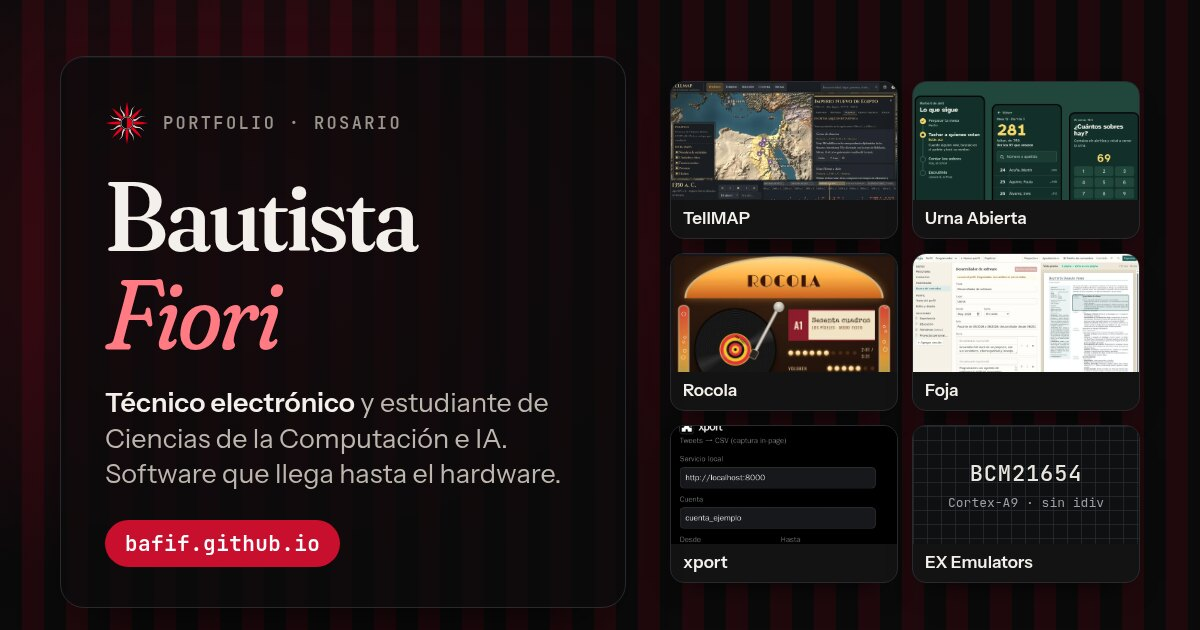
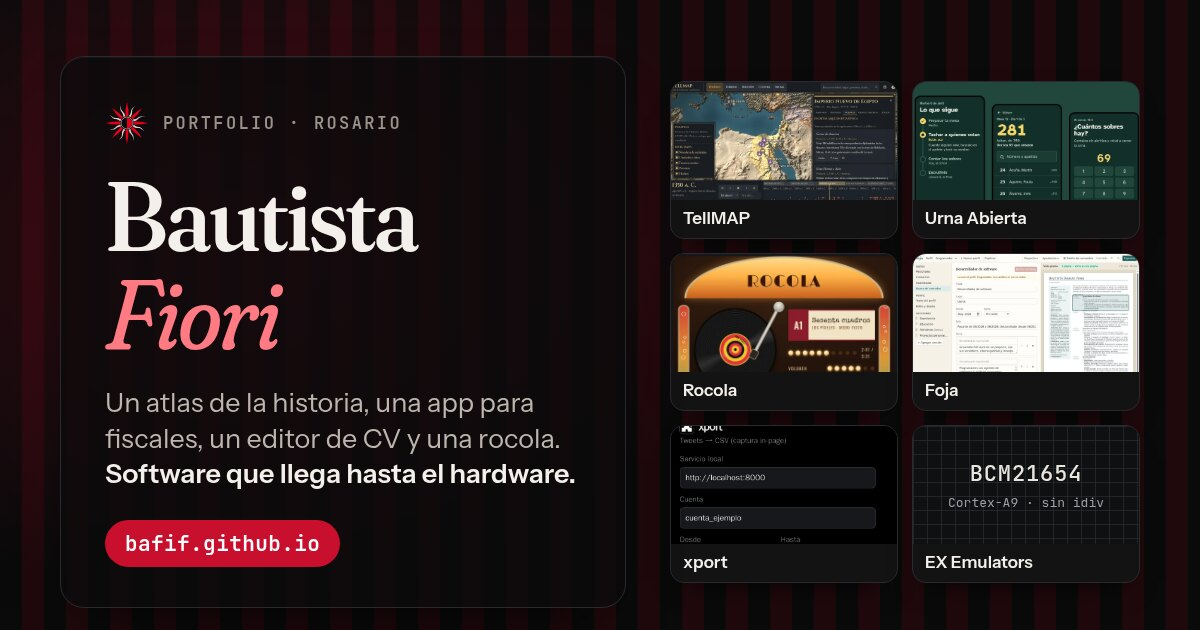
Make the site about the projects, not a CV
How I work, the skills list and the credentials in the opening go; the timeline keeps only projects; the closing invites people to use or join a project instead of reading as a job search. The description and the link preview name the projects instead of my titles.

Changed region(s): [[0.0925, 0.6032, 0.4933, 0.7841]]

diff --git a/src/data/profile.ts b/src/data/profile.ts
@@ -6,30 +6,9 @@ export const profile = {
   github: "https://github.com/bafif",
   githubHandle: "bafif",
   lead:
-    "Técnico electrónico y estudiante de Ciencias de la Computación y de Inteligencia Artificial en la UNR. " +
     "Hago herramientas completas, pensadas para que alguien las use de verdad: un atlas de la historia con sus " +
     "fuentes, una app para que un partido chico fiscalice con su propio servidor, un editor de CV que corre entero " +
     "en el navegador y un pendrive que vuelve rocola a cualquier PC vieja.",
-  features: [
-    "Del circuito al deploy: electrónica, firmware y software.",
-    "Linux de punta a punta: Arch, Debian, Podman y nginx.",
-    "C, C++, Python, TypeScript, GDScript y Racket.",
-    "Inglés C2 general y C1 técnico.",
-  ],
-  strengths: [
-    {
-      title: "Resolución",
-      body: "Cuando algo no anda, bajo hasta encontrar por qué. El port al Galaxy Pocket se destrabó cuando vi que su procesador no tiene instrucción para dividir.",
-    },
-    {
-      title: "Ritmo sostenido",
-      body: "Avanzo sin frustrarme ante la dificultad y levanto la mano apenas algo se traba, en vez de esconderlo.",
-    },
-    {
-      title: "Comunicación técnica",
-      body: "Escribo la documentación que me gustaría encontrar: qué hace cada cosa, qué no y qué falta probar. Doy clases desde 2018: explicar es parte de mi día a día.",
-    },
-  ],
 } as const;
 
 // DIP-16 pinout shown in the hero. Pins 1-8 run down the left side, 9-16 up the right side.

diff --git a/src/data/career.ts b/src/data/career.ts
@@ -1,10 +1,8 @@
 export type Milestone = { year: number; items: string[] };
 
 export const timeline: Milestone[] = [
-  { year: 2018, items: ["Empiezo a reparar equipos y a dar clases particulares."] },
   { year: 2022, items: ["Primer proyecto público: un tema GTK propio."] },
-  { year: 2024, items: ["Pasantía en tecso: firmware para ATtiny85 y ESP32, y automatización en Raspberry Pi."] },
-  { year: 2025, items: ["Mapa interactivo histórico, Racketarra, Generador de CV y Morphtools.", "Aportes a Alejandría."] },
+  { year: 2025, items: ["Mapa interactivo histórico, Racketarra, Morphtools y el generador de CV que dio origen a Foja.", "Aportes a Alejandría."] },
   {
     year: 2026,
     items: [

diff --git a/tools/og-image.html b/tools/og-image.html
@@ -188,7 +188,7 @@
     <div class="texto">
       <p class="rotulo"><img src="../public/marca/emblema-oscuro.svg" alt="" />Portfolio · Rosario</p>
       <h1>Bautista <em>Fiori</em></h1>
-      <p class="lema"><b>Técnico electrónico</b> y estudiante de Ciencias de la Computación e IA. Software que llega hasta el hardware.</p>
+      <p class="lema">Un atlas de la historia, una app para fiscales, un editor de CV y una rocola. <b>Software que llega hasta el hardware.</b></p>
       <p class="dominio">bafif.github.io</p>
     </div>
     <div class="proyectos">
